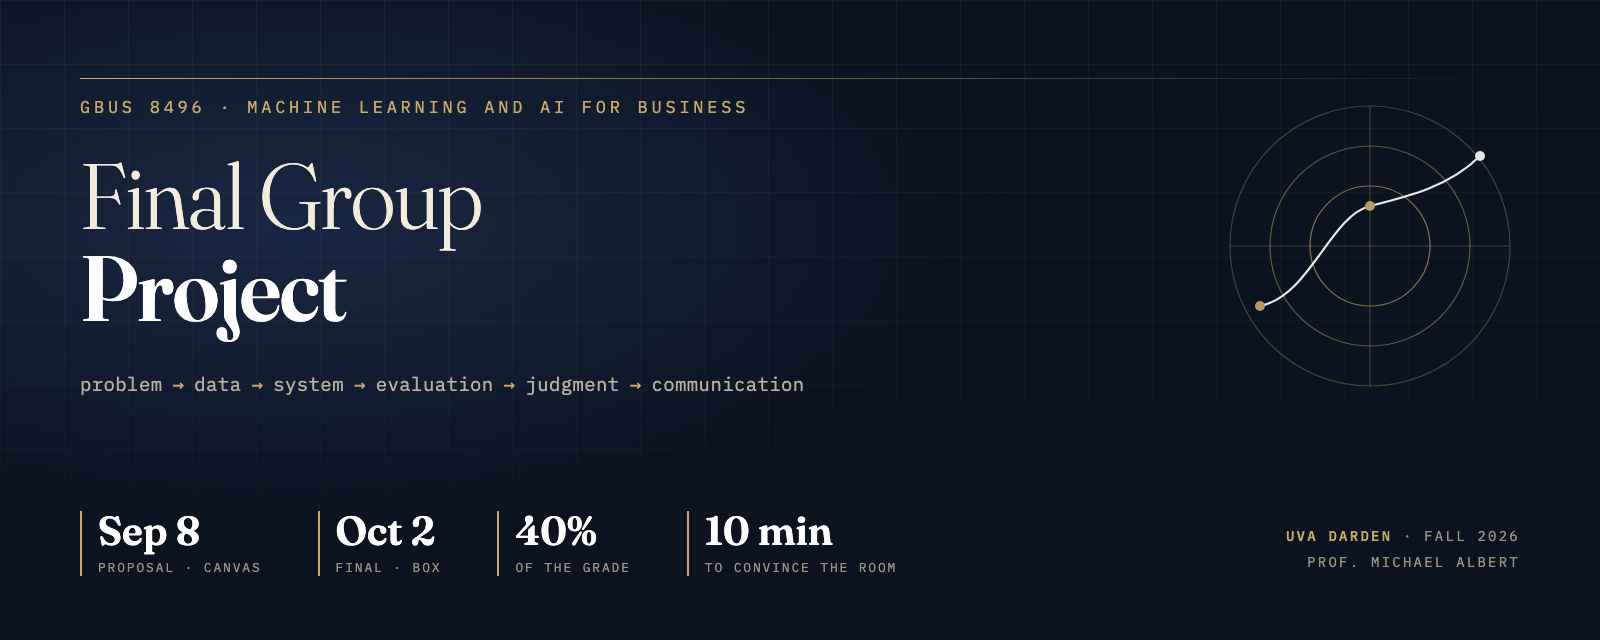
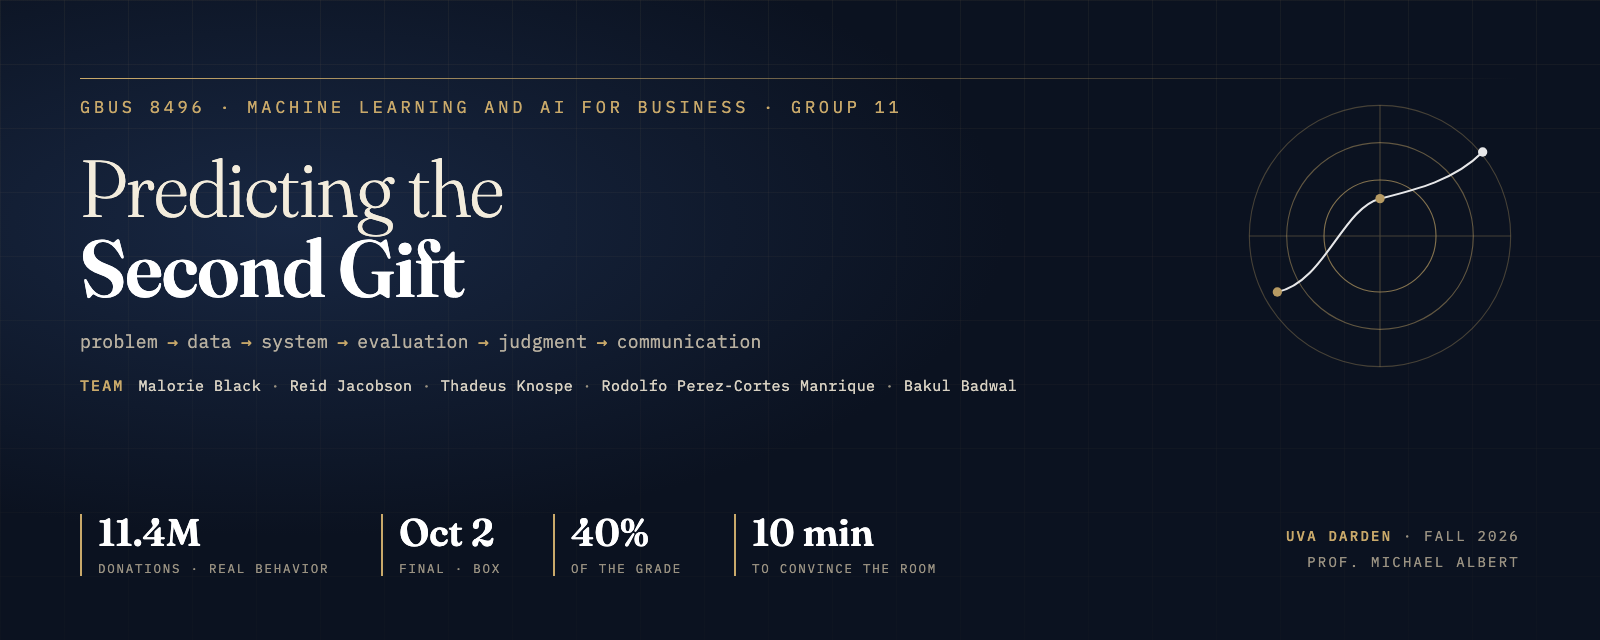
README: team table to the top, hero carries all five names
GitHub's Contributors sidebar only lists people who have pushed, so the README
now states membership explicitly and immediately under the banner.

diff --git a/assets/hero.html b/assets/hero.html
@@ -1,0 +1,55 @@
+<!doctype html>
+<html><head><meta charset="utf-8">
+<link href="https://fonts.googleapis.com/css2?family=Fraunces:opsz,wght@9..144,300;9..144,600&family=IBM+Plex+Mono:wght@400;500&display=swap" rel="stylesheet">
+<style>
+html,body{margin:0;padding:0;background:#0b1220}
+.hero{position:relative;width:1600px;height:640px;overflow:hidden;background:
+ radial-gradient(1200px 520px at 18% 35%,#182742 0%,#0b1220 60%),
+ #0b1220;color:#f3ecdc;font-family:'Fraunces',Georgia,serif}
+.grid{position:absolute;inset:0;background-image:
+ linear-gradient(rgba(201,169,106,.07) 1px,transparent 1px),
+ linear-gradient(90deg,rgba(201,169,106,.07) 1px,transparent 1px);
+ background-size:64px 64px;mask-image:linear-gradient(180deg,rgba(0,0,0,.9),rgba(0,0,0,.2))}
+.rule{position:absolute;left:80px;right:80px;top:78px;height:1px;background:linear-gradient(90deg,#c9a96a,rgba(201,169,106,0))}
+.kicker{position:absolute;left:80px;top:96px;font-family:'IBM Plex Mono',Menlo,monospace;font-size:17px;letter-spacing:.22em;color:#c9a96a;text-transform:uppercase}
+h1{position:absolute;left:80px;top:148px;margin:0;font-weight:300;font-size:80px;line-height:1.0;letter-spacing:-.01em;width:1080px}
+h1 b{font-weight:600;color:#fff}
+.sub{position:absolute;left:80px;top:330px;font-family:'IBM Plex Mono',Menlo,monospace;font-size:18px;color:#b8b0a0;letter-spacing:.02em}
+.sub span{color:#c9a96a;margin:0 9px}
+.teamrow{position:absolute;left:80px;top:376px;font-family:'IBM Plex Mono',Menlo,monospace;font-size:15px;color:#9a9282;letter-spacing:.03em}
+.teamrow b{color:#c9a96a;font-weight:500;letter-spacing:.14em;margin-right:14px}
+.teamrow i{font-style:normal;color:#d8d1c2}
+.stats{position:absolute;left:80px;bottom:64px;display:flex;gap:52px}
+.stat{border-left:2px solid #c9a96a;padding-left:16px}
+.stat .n{font-family:'Fraunces',serif;font-weight:600;font-size:38px;line-height:1;color:#fff}
+.stat .l{font-family:'IBM Plex Mono',Menlo,monospace;font-size:12.5px;letter-spacing:.14em;text-transform:uppercase;color:#9a9282;margin-top:8px}
+.brand{position:absolute;right:80px;bottom:64px;text-align:right;font-family:'IBM Plex Mono',Menlo,monospace;font-size:14px;letter-spacing:.16em;text-transform:uppercase;color:#9a9282;line-height:1.9}
+.brand b{color:#c9a96a;font-weight:500}
+.mark{position:absolute;right:80px;top:96px;width:280px;height:280px;opacity:.9}
+</style></head><body>
+<div class="hero">
+ <div class="grid"></div>
+ <div class="rule"></div>
+ <div class="kicker">GBUS 8496 · Machine Learning and AI for Business · Group 11</div>
+ <h1>Predicting the<br><b>Second Gift</b></h1>
+ <div class="sub">problem<span>→</span>data<span>→</span>system<span>→</span>evaluation<span>→</span>judgment<span>→</span>communication</div>
+ <div class="teamrow"><b>TEAM</b><i>Malorie Black</i> · <i>Reid Jacobson</i> · <i>Thadeus Knospe</i> · <i>Rodolfo Perez-Cortes Manrique</i> · <i>Bakul Badwal</i></div>
+ <div class="stats">
+  <div class="stat"><div class="n">11.4M</div><div class="l">Donations · real behavior</div></div>
+  <div class="stat"><div class="n">Oct 2</div><div class="l">Final · Box</div></div>
+  <div class="stat"><div class="n">40%</div><div class="l">of the grade</div></div>
+  <div class="stat"><div class="n">10 min</div><div class="l">to convince the room</div></div>
+ </div>
+ <svg class="mark" viewBox="0 0 300 300" fill="none" stroke="#c9a96a" stroke-width="1.2">
+  <circle cx="150" cy="150" r="140" opacity=".35"/>
+  <circle cx="150" cy="150" r="100" opacity=".5"/>
+  <circle cx="150" cy="150" r="60" opacity=".7"/>
+  <path d="M10 150 H290 M150 10 V290" opacity=".35"/>
+  <path d="M40 210 C 90 200, 110 120, 150 110 S 230 90, 260 60" stroke="#fff" stroke-width="2.2"/>
+  <circle cx="150" cy="110" r="5" fill="#c9a96a" stroke="none"/>
+  <circle cx="260" cy="60" r="5" fill="#fff" stroke="none"/>
+  <circle cx="40" cy="210" r="5" fill="#c9a96a" stroke="none"/>
+ </svg>
+ <div class="brand"><b>UVA Darden</b> · Fall 2026<br>Prof. Michael Albert</div>
+</div>
+</body></html>

diff --git a/README.md b/README.md
@@ -13,6 +13,20 @@ One business problem, one artifact we built, one evaluation we can defend.
 
 ---
 
+## The team
+
+All five of us have push access to this repo. GitHub's **Contributors** sidebar only lists people
+who have already pushed a commit, so it will fill in as we each start working — it is not the
+membership list. This table is.
+
+| Member | GitHub | Workstream (see spec §9) |
+|---|---|---|
+| Malorie Black | [@blackm33](https://github.com/blackm33) | TBD — proposed *Second Gift* |
+| Reid Jacobson | [@Reido938](https://github.com/Reido938) | TBD |
+| Thadeus Knospe | [@thadeusk](https://github.com/thadeusk) | TBD |
+| Rodolfo Perez-Cortes Manrique | [@rodolfopiem33](https://github.com/rodolfopiem33) | TBD — proposed *Amazon traction* |
+| Bakul Badwal | [@bakulbadwal](https://github.com/bakulbadwal) | TBD |
+
 ## Two deadlines
 
 | | Due | Where | Counts |
@@ -95,16 +109,6 @@ pip install -r requirements.txt
 - Raw data and API keys never get committed. `data/README.md` says how to fetch data; keys live in `.env` (ignored).
 - Notebooks are read aloud in class: annotate every decision, no unexplained cells.
 - A discrepancy between our number and someone else's is a finding, not a bug to hide.
-
-## Team
-
-| Member | GitHub | Workstream (see spec §9) |
-|---|---|---|
-| Bakul Badwal | [@bakulbadwal](https://github.com/bakulbadwal) | TBD |
-| Malorie Black | [@blackm33](https://github.com/blackm33) | TBD — proposed *Second Gift* |
-| Reid Jacobson | [@Reido938](https://github.com/Reido938) | TBD |
-| Thadeus Knospe | [@thadeusk](https://github.com/thadeusk) | TBD |
-| Rodolfo Perez-Cortes Manrique | [@rodolfopiem33](https://github.com/rodolfopiem33) | TBD — proposed *Amazon traction* |
 
 ---
 
